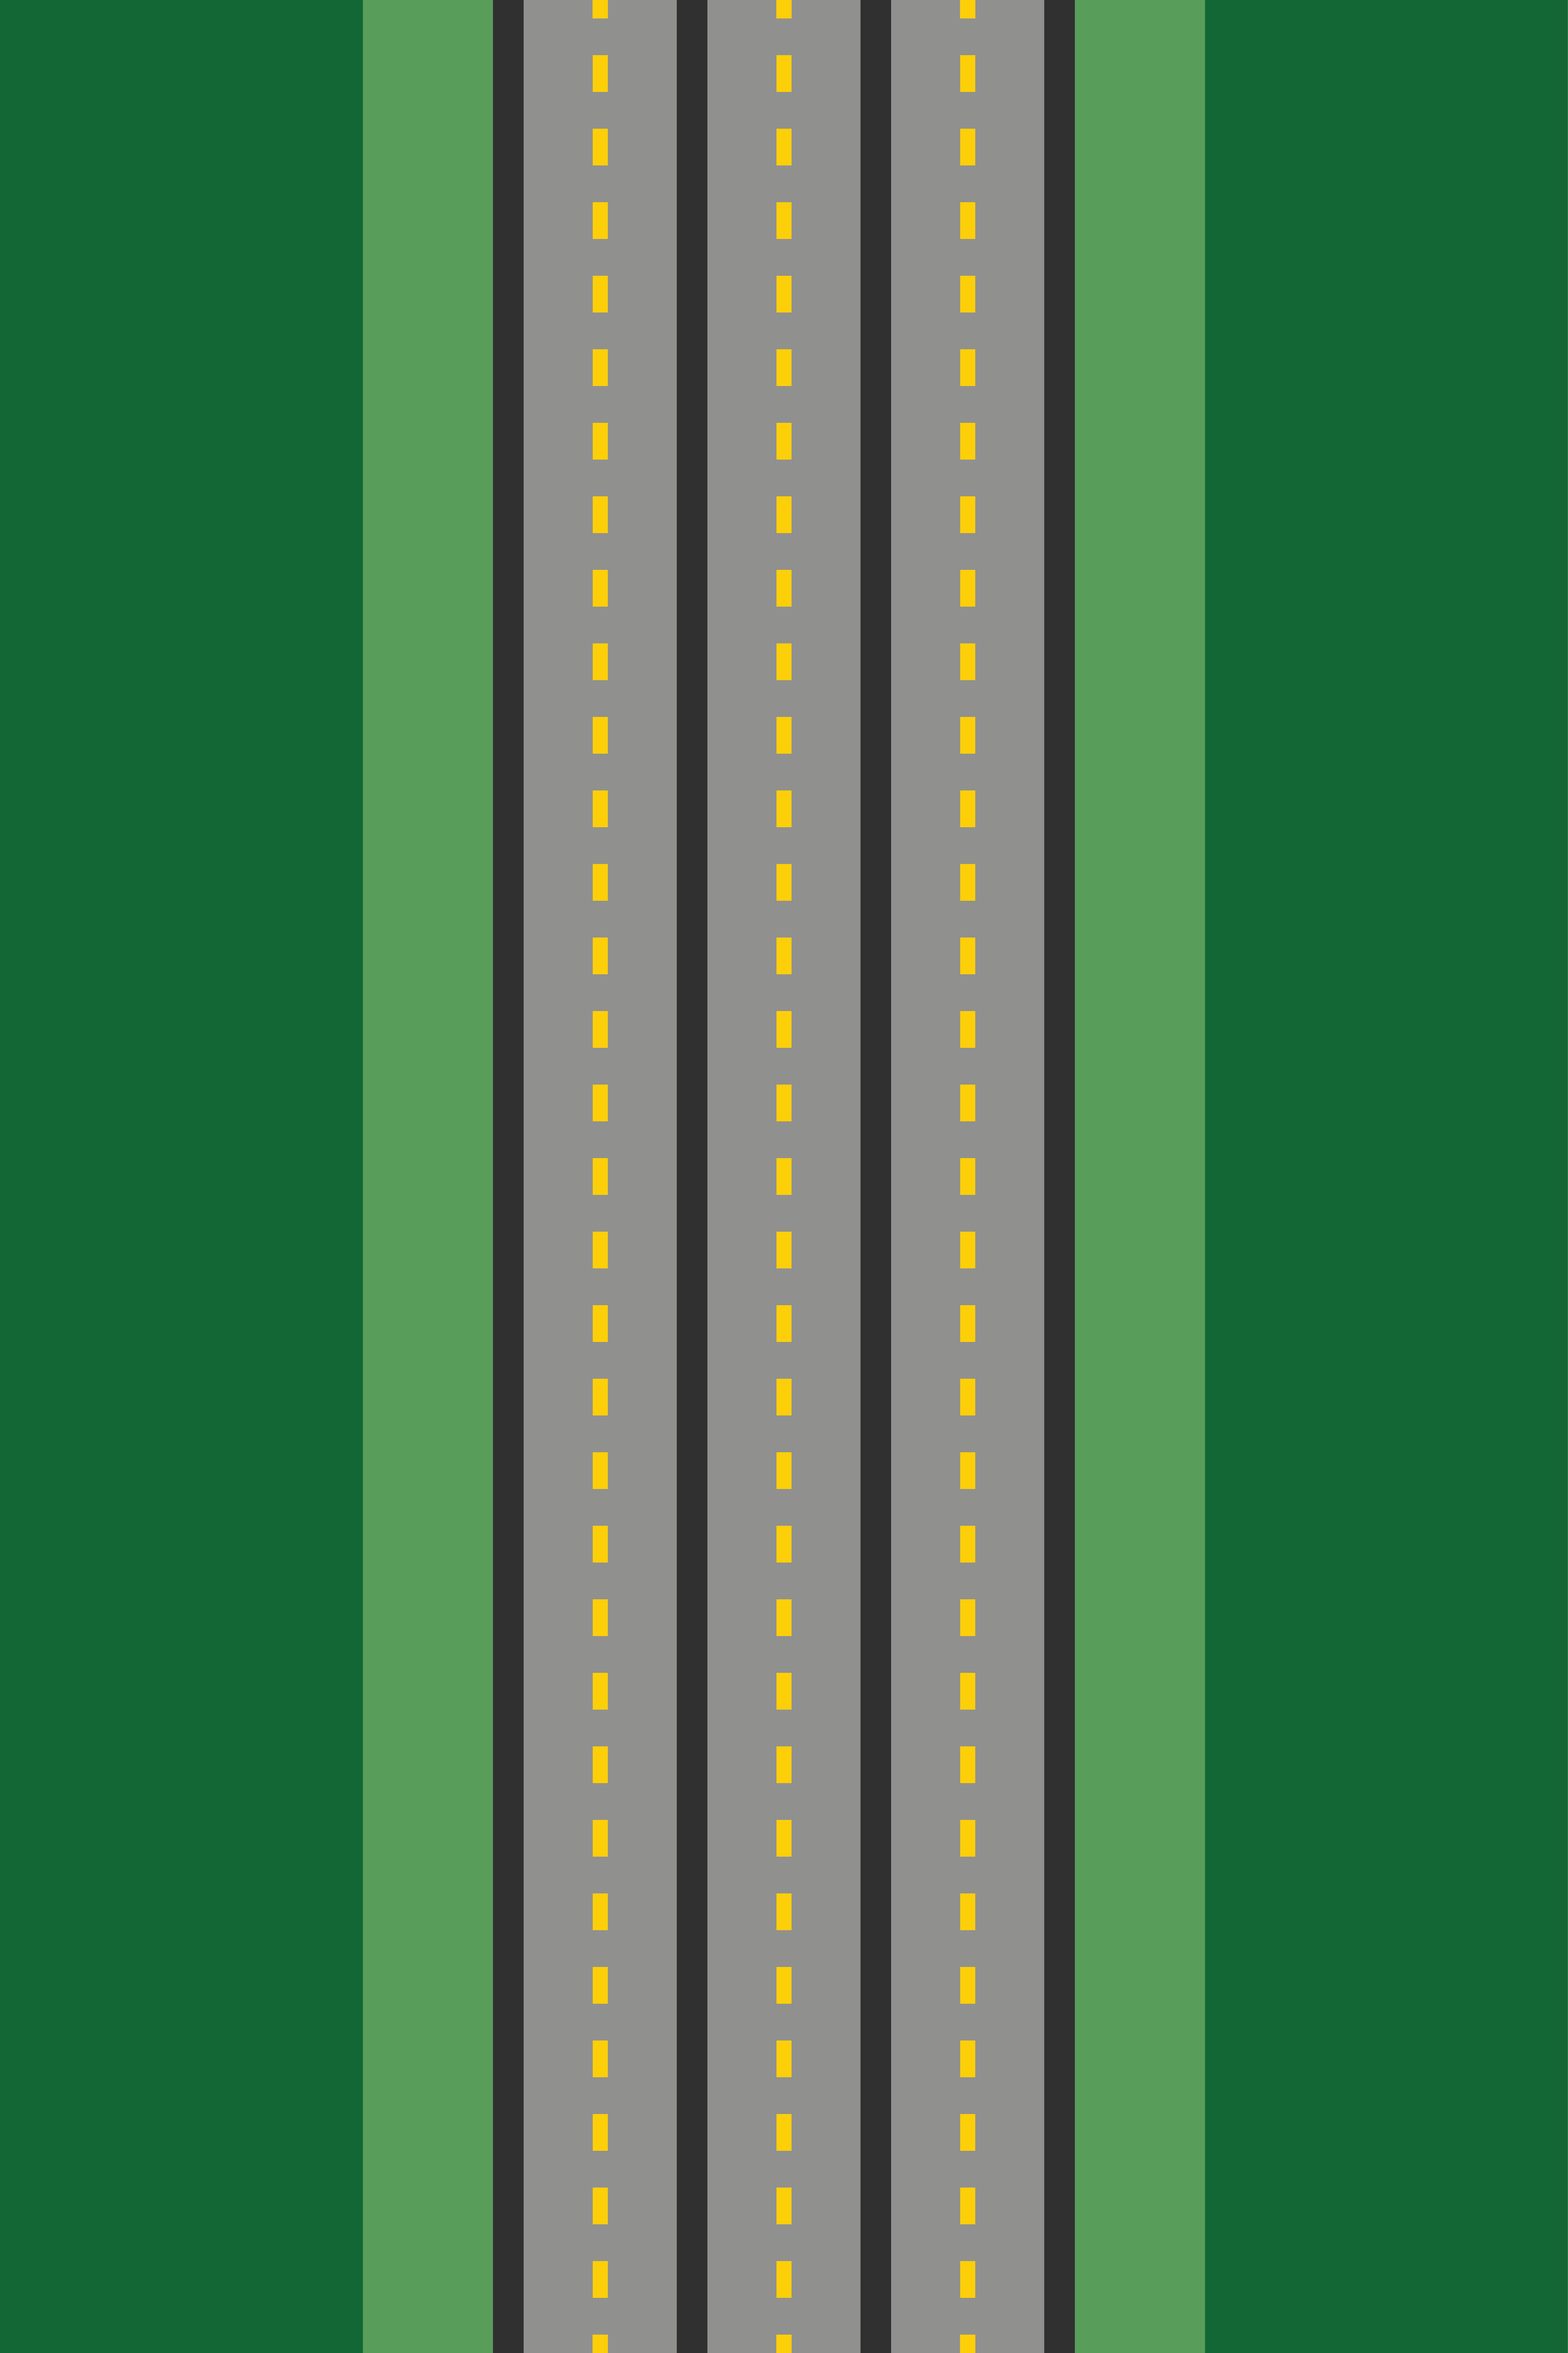
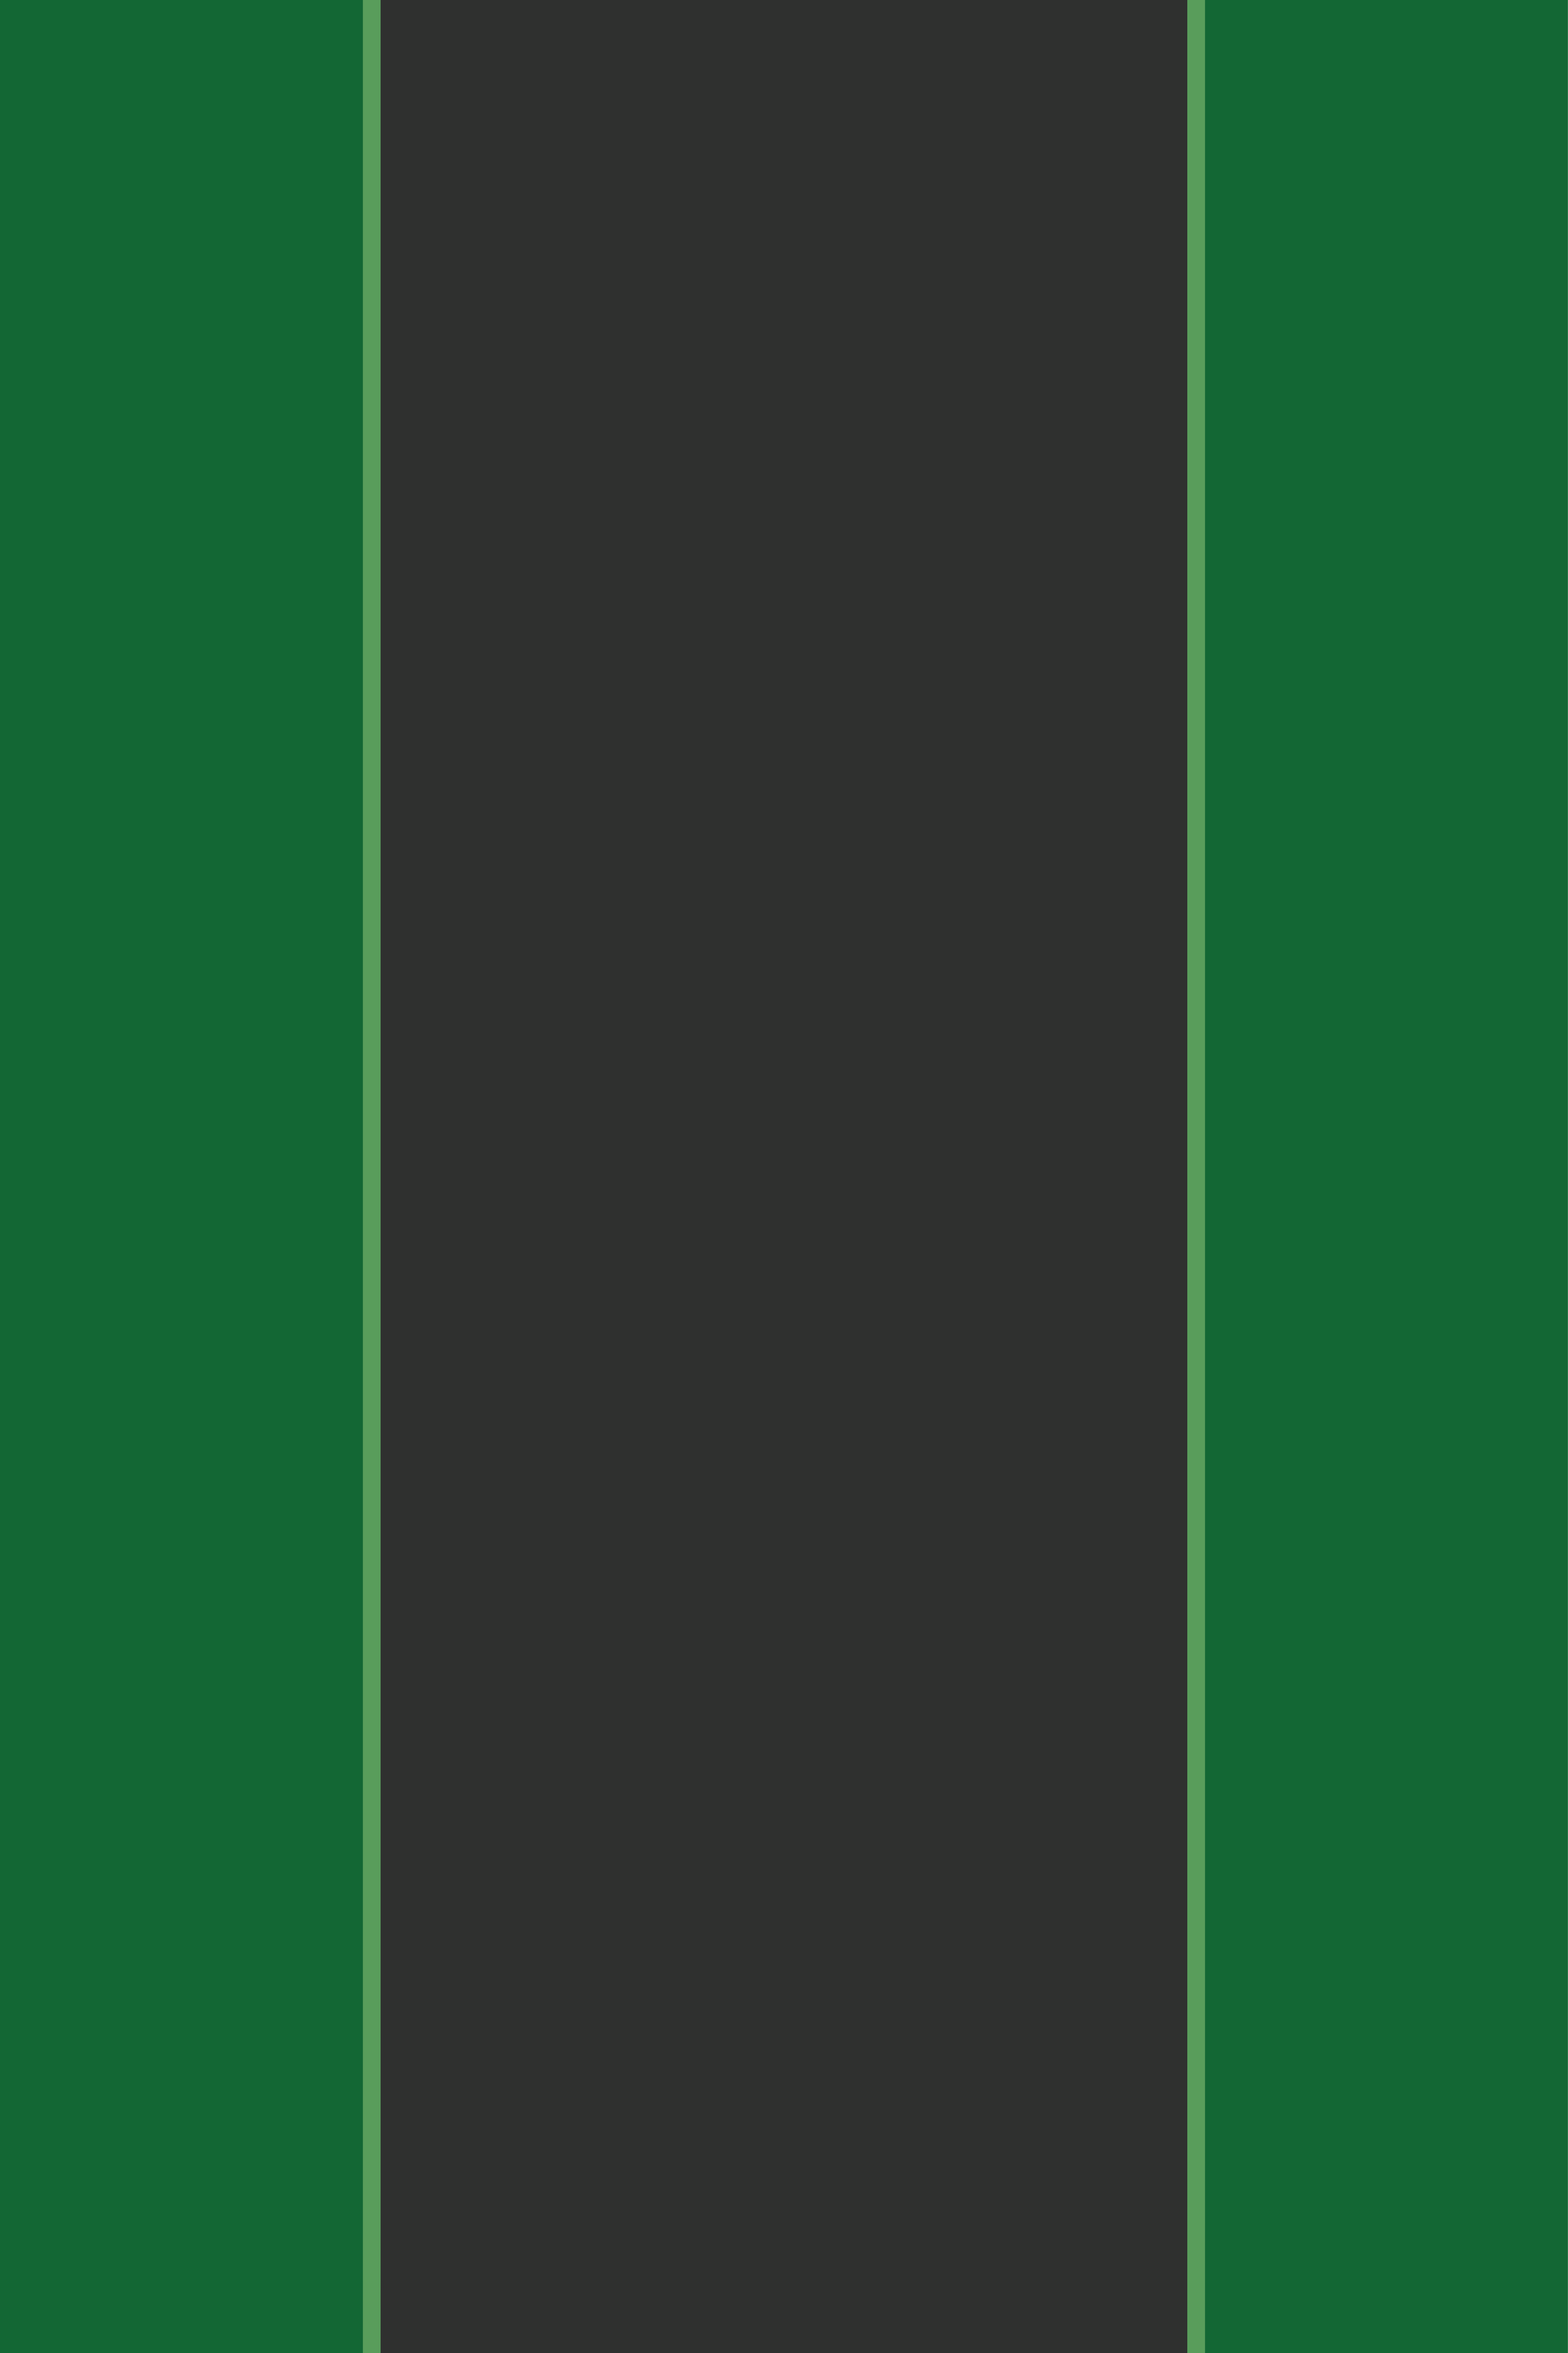
[Modify] Modifiable lane number

diff --git a/car_simulator/background.py b/car_simulator/background.py
@@ -1,41 +1,46 @@
 import pygame
 import numpy as np
 
-ROADWIDTH = 100
-ROADMARGIN = 10
-ROAD1X = 512
+ROADWIDTH = 50
+MID = 500
 
-ROAD2X = ROAD1X + ROADWIDTH + 2*ROADMARGIN
-ROAD3X = ROAD1X - ROADWIDTH - 2*ROADMARGIN
-BOUND_XMAX = ROAD1X + 2*ROADWIDTH + 5*ROADMARGIN
-BOUND_XMIN = ROAD1X - 2*ROADWIDTH - 5*ROADMARGIN
 BOUND_YMAX = 768
 BOUND_YMIN = 0
 
 class background:
 
-    def __init__(self, fname, posx=0, posy=-768):
+    def __init__(self, fname, frname, lanenum=3, posx=0, posy=-768):
         self.figure = pygame.image.load(fname)
         self.surface = self.figure
+        self.roadfigure = pygame.image.load(frname)
         self.surface = pygame.transform.scale(self.surface, (1024,768*2))
         self.rect = self.surface.get_rect()
+
+        self.lanenum = lanenum
+        self.updatespawnpoint(lanenum)
+
         self.position = np.array([posx,posy])
-
-        self.minbound = np.array([BOUND_XMIN, BOUND_YMIN])
-        self.maxbound = np.array([BOUND_XMAX, BOUND_YMAX])
-
-        self.spawnpoint = [ np.array([ROAD1X+ROADWIDTH/4,-30]),
-                            np.array([ROAD1X-ROADWIDTH/4,-30]),
-                            np.array([ROAD2X+ROADWIDTH/4,-30]),
-                            np.array([ROAD2X-ROADWIDTH/4,-30]),
-                            np.array([ROAD3X+ROADWIDTH/4,-30]),
-                            np.array([ROAD3X-ROADWIDTH/4,-30]) ]
+        self.roadpositions = [np.array([pos[0], self.position[1]]) for pos in self.spawnpoint]
 
     def update(self):
         self.position += np.array([0,2])
         if self.position[1] == 0: self.reload()
+        self.roadpositions = [np.array([pos[0], self.position[1]]) for pos in self.spawnpoint]
         self.rect = self.surface.get_rect()
         self.rect.left,self.rect.top = tuple(self.position)
+        self.roadrects = []
+        for i,surf in enumerate(self.roadsurfaces):
+            rect = surf.get_rect()
+            rect.center = tuple(self.spawnpoint[i])
+            rect.top = self.position[1]
+            self.roadrects.append(rect)
 
     def reload(self):
         self.position = np.array([0,-768])
+
+    def updatespawnpoint(self, lanenum):
+        self.roadsurfaces = [pygame.transform.scale(self.roadfigure, (ROADWIDTH,768*2))]*lanenum
+        bias = MID - ROADWIDTH * lanenum/4
+        self.spawnpoint = [ np.array([ bias+n*ROADWIDTH ,-30]) for n in range(0,lanenum) ]
+        self.minbound = np.array([MID-ROADWIDTH*(1+lanenum/2), BOUND_YMIN])
+        self.maxbound = np.array([MID+ROADWIDTH*(1+lanenum/2), BOUND_YMAX])

diff --git a/car_simulator/game.py b/car_simulator/game.py
@@ -31,7 +31,7 @@ class gamemgr:
         self.objects.append(main_car)
 
         # background and text interface init
-        self.background = background(fname=IMAGE_PATH+'bg.png')
+        self.background = background(fname=IMAGE_PATH+'bg.png', frname=IMAGE_PATH+'road.png')
         self.status = font(FONT,FONTSIZE, (40,200))
         self.instruction = font(FONT,FONTSIZE, (40,40))
         self.instruction.update( "GAME INSTRUCTION"                             )
@@ -80,9 +80,11 @@ class gamemgr:
         yacc = 0
         xacc = 0
         lane = 0
+        lanenum = 0
         for key in self.events:
             if key==OPPONENTCARSPAWN:
-                pos = self.background.spawnpoint[random.randint(0,5)]
+                l = random.randint(0,self.background.lanenum-1)
+                pos = self.background.spawnpoint[l]
                 op_car = car(fname=IMAGE_PATH+'opponent_car.png', posx=pos[0], posy=pos[1], spdy=random.uniform(12,24) ,sc=0.1, rt=180, isdrag=False)
                 self.objects.append(op_car)
             if key==K_DOWN: yacc = 1 
@@ -109,10 +111,13 @@ class gamemgr:
 
         # update main character status: state 2
         if self.state==2 and lane!=0:
-            print lane
             pos = np.array(self.background.spawnpoint[lane-1])
             pos[1] = self.objects[0].position[1]
             self.objects[0].settarget(pos)
+
+        # update main background status: state 2
+        if lanenum!=0:
+            self.updatespawnpoint(lanenum)
 
         # update other objects status
         while self.collideds:
@@ -155,6 +160,8 @@ class gamemgr:
         # background
         self.screen.fill(BLACK)
         self.screen.blit(self.background.surface, self.background.rect)
+        for i,rect in enumerate(self.background.roadrects):
+            self.screen.blit(self.background.roadsurfaces[i], rect)
 
         # objects
         for i,obj in enumerate(self.objects):
